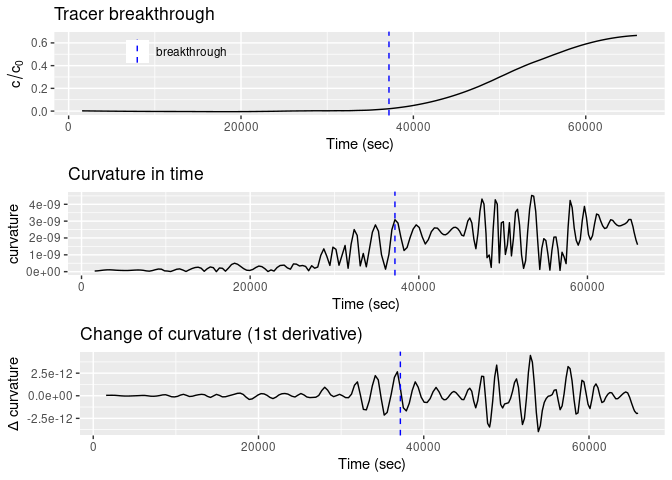
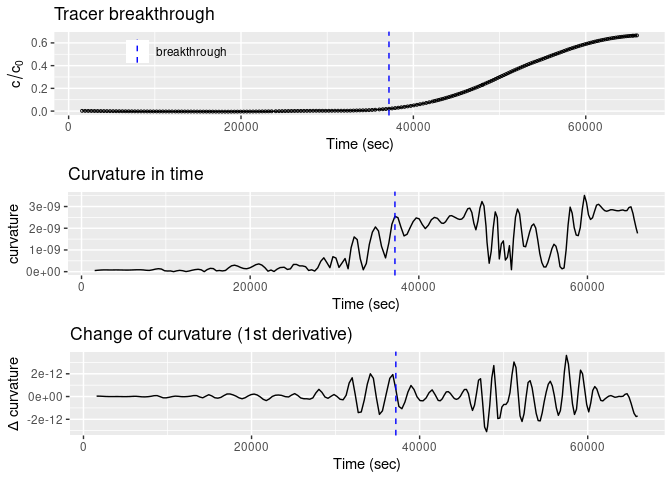
Minor changes

diff --git a/README.md b/README.md
@@ -1,14 +1,13 @@
 ViscousFlow
 ================
 Christina Bogner
-2020-11-06
+2020-12-30
 
 <!-- README.md is generated from README.Rmd. Please edit that file -->
 
 ## Package aims
 
 <!-- badges: start -->
-
 <!-- badges: end -->
 
 This package analyses laboratory irrigation experiments on soil columns.
@@ -64,7 +63,7 @@ library(tidyverse)
 #> x dplyr::lag()    masks stats::lag()
 library(gridExtra)
 #> 
-#> Attaching package: 'gridExtra'
+#> Attache Paket: 'gridExtra'
 #> The following object is masked from 'package:dplyr':
 #> 
 #>     combine
@@ -119,17 +118,29 @@ breakthrough <- find_tracer_breakthrough(tracer_data = tracer, time_interval = c
 
 ``` r
 breakthrough
-#>  time 
-#> 37169
+#> $breakthrough_time
+#> [1] 37169
+#> 
+#> $tracer_data
+#> # A tibble: 213 x 6
+#>     time     value smoothed_tracer tracer_first_der… curvature curvature_first_…
+#>    <dbl>     <dbl>           <dbl>             <dbl>     <dbl>             <dbl>
+#>  1  1560  0.00205        0.00201        -0.000000920  5.13e-11          3.74e-14
+#>  2  1920  0.00171        0.00168        -0.000000902  6.51e-11          3.46e-14
+#>  3  2280  0.00138        0.00136        -0.000000875  7.58e-11          2.11e-14
+#>  4  2640  0.00106        0.00105        -0.000000845  8.17e-11          6.11e-15
+#>  5  3000  0.000745       0.000753       -0.000000816  8.08e-11         -1.11e-15
+#>  6  3360  0.000449       0.000464       -0.000000789  7.83e-11         -2.57e-15
+#>  7  3720  0.000167       0.000186       -0.000000760  7.93e-11         -3.24e-16
+#>  8  4080 -0.000101      -0.0000825      -0.000000730  8.07e-11          9.50e-16
+#>  9  4440 -0.000359      -0.000340       -0.000000702  7.97e-11         -3.44e-15
+#> 10  4800 -0.000608      -0.000588       -0.000000674  7.72e-11         -7.70e-15
+#> # … with 203 more rows
 ```
 
 Fit the viscous flow equation to the drainage data:
 
-  
-![q(Z,t) = q\_{S} \\cdot \\left( \\frac{T\_{D} - T\_{E}}{t - T\_{E}}
-\\right) ^\\frac{3}{2} \\quad \\mathrm{for} \\quad T\_{D} \\leq t \\leq
-\\infty](https://latex.codecogs.com/png.latex?q%28Z%2Ct%29%20%3D%20q_%7BS%7D%20%5Ccdot%20%5Cleft%28%20%5Cfrac%7BT_%7BD%7D%20-%20T_%7BE%7D%7D%7Bt%20-%20T_%7BE%7D%7D%20%5Cright%29%20%5E%5Cfrac%7B3%7D%7B2%7D%20%5Cquad%20%5Cmathrm%7Bfor%7D%20%5Cquad%20T_%7BD%7D%20%5Cleq%20t%20%5Cleq%20%5Cinfty
-"q(Z,t) = q_{S} \\cdot \\left( \\frac{T_{D} - T_{E}}{t - T_{E}} \\right) ^\\frac{3}{2} \\quad \\mathrm{for} \\quad T_{D} \\leq t \\leq \\infty")  
+![q(Z,t) = q\_{S} \\cdot \\left( \\frac{T\_{D} - T\_{E}}{t - T\_{E}} \\right) ^\\frac{3}{2} \\quad \\mathrm{for} \\quad T\_{D} \\leq t \\leq \\infty](https://latex.codecogs.com/png.latex?q%28Z%2Ct%29%20%3D%20q_%7BS%7D%20%5Ccdot%20%5Cleft%28%20%5Cfrac%7BT_%7BD%7D%20-%20T_%7BE%7D%7D%7Bt%20-%20T_%7BE%7D%7D%20%5Cright%29%20%5E%5Cfrac%7B3%7D%7B2%7D%20%5Cquad%20%5Cmathrm%7Bfor%7D%20%5Cquad%20T_%7BD%7D%20%5Cleq%20t%20%5Cleq%20%5Cinfty "q(Z,t) = q_{S} \cdot \left( \frac{T_{D} - T_{E}}{t - T_{E}} \right) ^\frac{3}{2} \quad \mathrm{for} \quad T_{D} \leq t \leq \infty")
 
 During the steady state, the irrigation intensity and the drainage flow
 should be equal. From experience, calculating the flux density
@@ -164,7 +175,7 @@ fit_result$TD
 Calculate the parameters of the viscous flow, namely the celerity
 ![c](https://latex.codecogs.com/png.latex?c "c"), the film width
 ![F](https://latex.codecogs.com/png.latex?F "F") (in
-![\\mu](https://latex.codecogs.com/png.latex?%5Cmu "\\mu")m) and the
+![\\mu](https://latex.codecogs.com/png.latex?%5Cmu "\mu")m) and the
 contact area ![L](https://latex.codecogs.com/png.latex?L "L") (in
 m<sup>-1</sup>).
 
@@ -172,15 +183,15 @@ m<sup>-1</sup>).
 params <- calculate_vf_parameters(TD = fit_result$TD, TE = fit_result$TE,
                                   Z = 0.3, qS = fit_result$qS)
 params
-#>              c        F       L
-#> 1 0.0007142857 8.532995 1374.67
+#>              c        F        L
+#> 1 0.0007142857 8.532995 1376.101
 ```
 
 ## Refereneces
 
-<div id="refs">
+<div id="refs" class="references csl-bib-body hanging-indent">
 
-<div id="ref-Bogner2019">
+<div id="ref-Bogner2019" class="csl-entry">
 
 Bogner, Christina, and Peter Germann. 2019. “Viscous Flow Approach to
 ‘Pushing Out Old Water’ from Undisturbed and Repacked Soil Columns.”
@@ -189,11 +200,11 @@ Bogner, Christina, and Peter Germann. 2019. “Viscous Flow Approach to
 
 </div>
 
-<div id="ref-Germann2018">
+<div id="ref-Germann2018" class="csl-entry">
 
 Germann, Peter. 2018. *Preferential Flow Stokes Approach to Infiltration
 and Drainage*. CH: Geographica Bernensia.
-<https://doi.org/https://doi.org/10.4480/GB2018.G88>.
+https://doi.org/<https://doi.org/10.4480/GB2018.G88>.
 
 </div>
 
